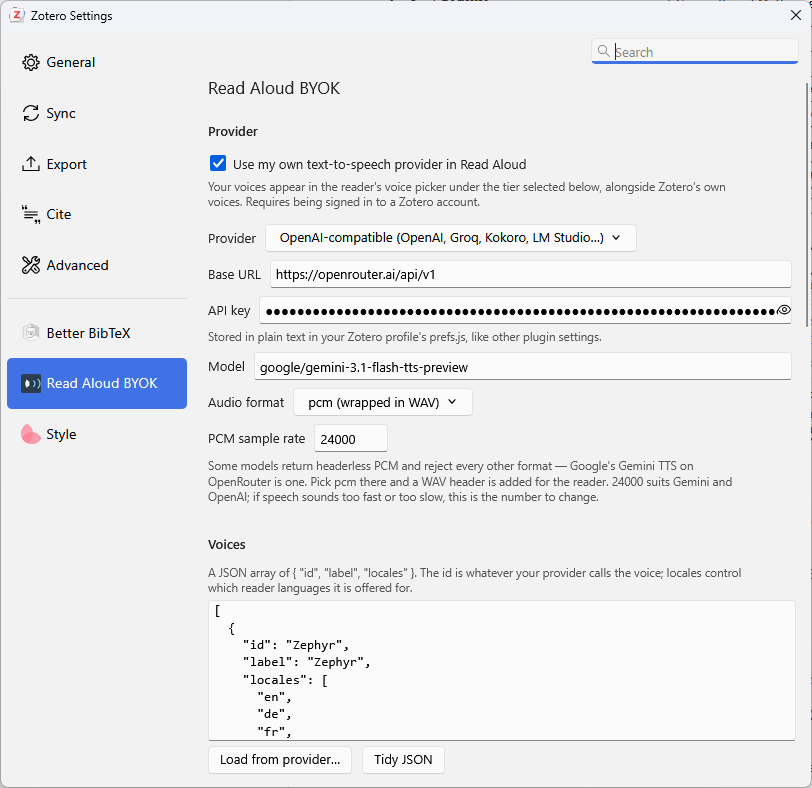
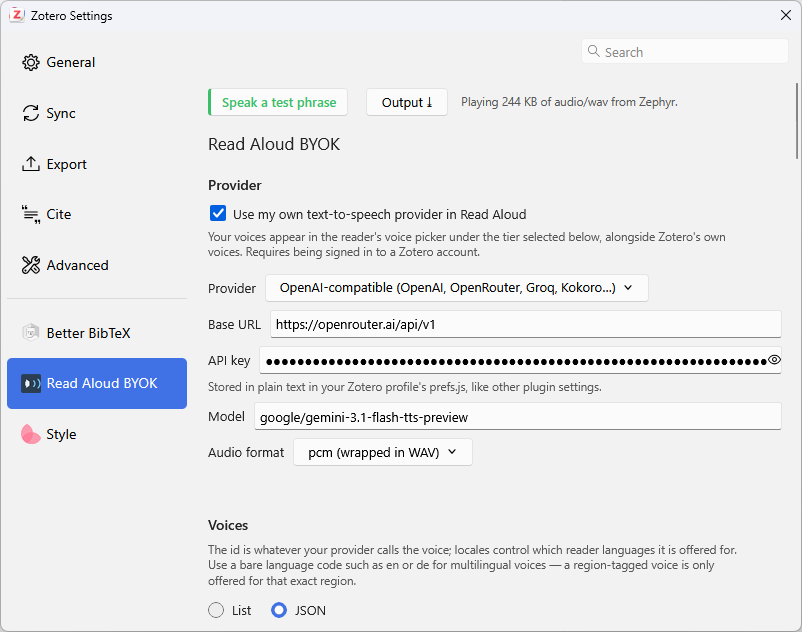
Use the current provider screenshot
The one in the repository predated the test bar. The replacement shows the
sticky bar in its success state and the List/JSON voices toggle.

diff --git a/README.md b/README.md
@@ -10,7 +10,7 @@ bracketed asides — and stitches sentences broken across a page break back toge
 
 Requires Zotero 9. MIT licensed.
 
-![Provider settings](images/settings-provider.png)
+![Provider settings, with the test bar reporting a successful run](images/settings-provider.png)
 
 ## How it works
 
@@ -269,7 +269,7 @@ the cached audio after editing it.
 
 ## Skip
 
-![Skip rules and the test bar](images/settings-skip.png)
+![Skip rules](images/settings-skip.png)
 
 A **Skip** row is added to the reader's Read Aloud popup; clicking it reveals toggles for what to
 leave out. The same toggles are mirrored in this plugin's preferences pane.
